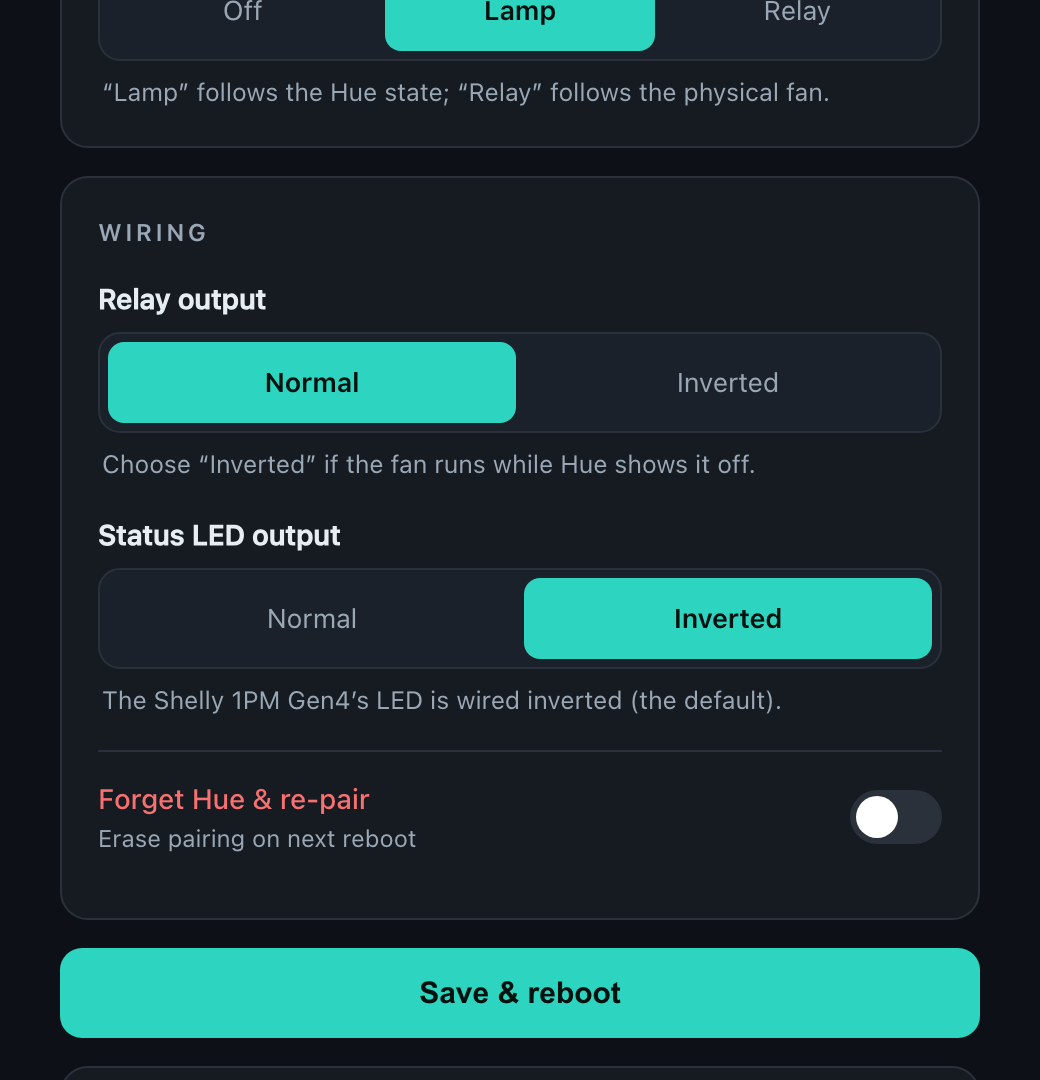
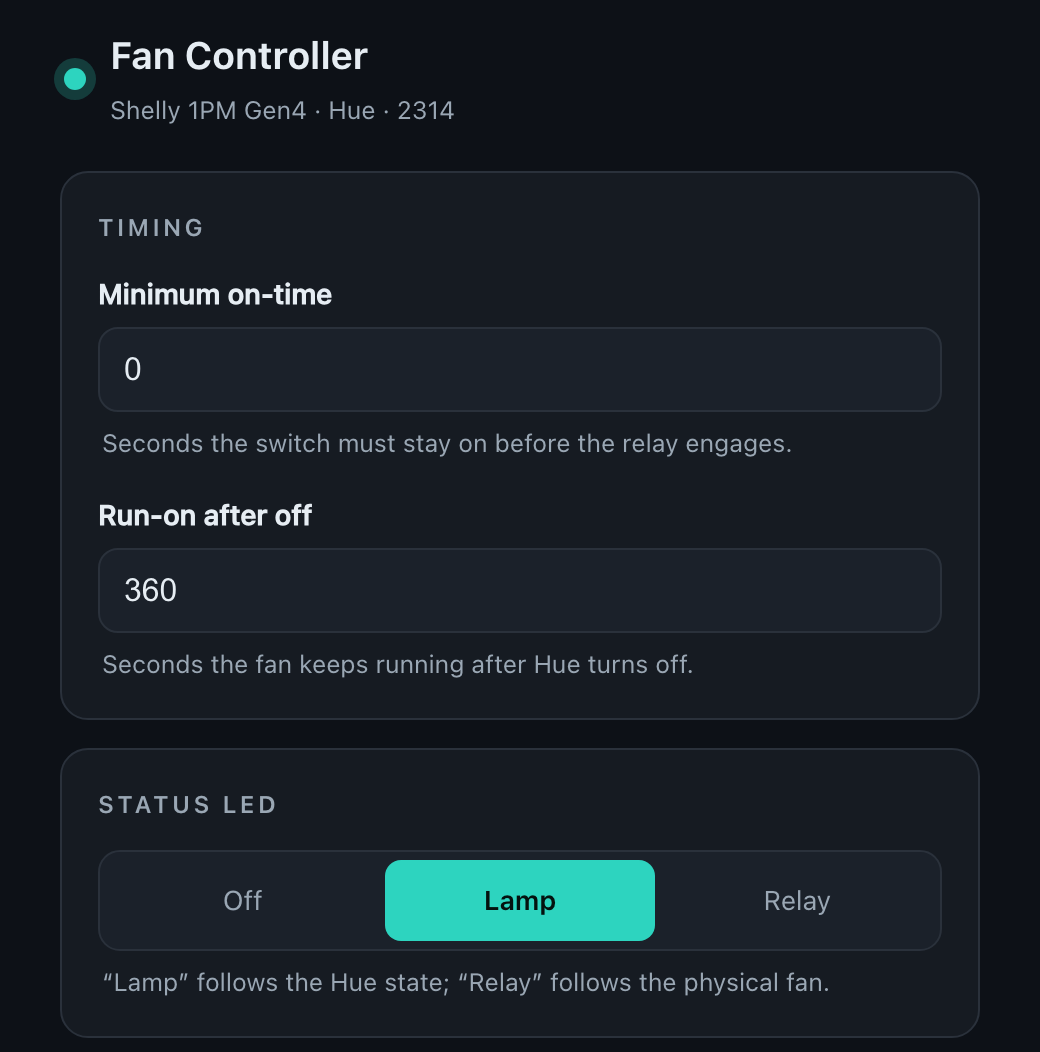
Recrop portal screenshots, link blakadder pinout pages

diff --git a/README.md b/README.md
@@ -125,8 +125,11 @@ builds take seconds.
 | 6 | TX | adapter **RX** |
 | 7 | — | nothing |
 
-The pinout is the same as the Shelly Plus 1PM's. Identify pin 1 from the marking
-on your board before you connect power.
+The header is described in the
+[blakadder template for the Shelly 1PM Gen4](https://templates.blakadder.com/shelly_1PM_Gen4.html).
+Its pinout is the same as the Shelly Plus 1PM's, whose
+[blakadder page](https://templates.blakadder.com/shelly_plus_1PM.html) has a
+photo showing where pin 1 is. Find pin 1 on your board before you connect power.
 
 Plug in the adapter and find its serial port:
 
@@ -483,7 +486,9 @@ Notes for development:
 
 - [huesmith](https://github.com/canack/huesmith) by Engin Açıkgöz.
 - Pin and header references: the ESPHome device database, the blakadder Tasmota
-  template for the Shelly 1PM Gen4, and Tasmota discussion #24407.
+  templates for the [Shelly 1PM Gen4](https://templates.blakadder.com/shelly_1PM_Gen4.html)
+  and the [Shelly Plus 1PM](https://templates.blakadder.com/shelly_plus_1PM.html),
+  and Tasmota discussion #24407.
 
 ## License
 
